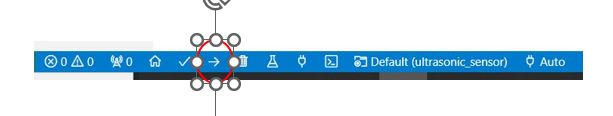
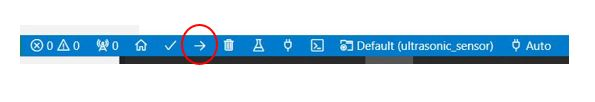
20250320

diff --git a/documentation/references/microros/microros.md b/documentation/references/microros/microros.md
@@ -101,8 +101,41 @@ board = esp32-s3-devkitc-1
 
 :::::
 
+*In het platformio.ini bestand van het project kun je details m.b.t. compileropties voor ieder environment inzien.*
 
-## Programmeren/uploaden van ESP32 devices
+## Uploaden programma naar ESP32 devices
+### Environment selecteren
+Alvorens je een microROS programma kan compileren dien je de juiste environment te selecteren die bij het het gekozen ESP32 board past.
+Activeer de environment slectector:
+
+![image](../../images/PlatformIO/SelectEnvironmentPre.JPG)
+
+Kies daarna de juiste environmet:
+
+![image](../../images/PlatformIO/SelectEnvironment.JPG)
+
+### Software Compileren
+Je kunt het programma voor het device compileren met onderstaande functie:
+
+![image](../../images/PlatformIO/Compile.JPG)
+
+### Uploaden naar ESP32 device
+Nadat je het device hebt aangesloten via USB kun je de software naar het device uploaden:
+
+![image](../../images/PlatformIO/Upload.JPG)
+
+Nadat de software succesvol is geüpload zal het programma automatisch in het device starten.
+
+Tip: *Tijdens het uploaden zal getoond worden welke USB-device hiervoor gebruikt wordt. Maak hiervan een aantekening deze heb je nodig bij het starten van de microROS-agent.*
+
+{octicon}`alert;2em;sd-text-info` Bij gebruik van WSL moet je het embedded systeem wel eerst met WSL verbinden, zie [Koppelen USB-devices aan WSL-Distributie](https://avansmechatronica.github.io/WindowsSubsystemForLinuxHandleiding/documentation/WSL_Handleiding.html#koppelen-usb-devices-aan-wsl-distributie)
+
+{octicon}`alert;2em;sd-text-info`Zorg er voor dat bij het uploaden de bijbehorende microROS-agent is afgesloten.
+
+{octicon}`alert;2em;sd-text-info`Start in geen geval de *Serial Monitor*. Deze zal de communicatie over USB naar de microROS-agent blokkeren.
+
+![image](../../images/PlatformIO/NoSerialMonitor.JPG)
+
 
 ## Voorbeelden
 Er zijn in het kader van deze modules al twee microROS implementaties gerealiseerd voor de volgende workshops:
@@ -114,12 +147,11 @@ Er zijn in het kader van deze modules al twee microROS implementaties gerealisee
 De microROS-agent kan worden gestart met het volgende commando:
 
 ```
-ros2 run micro_ros_agent micro_ros_agent serial --dev <device>
+ros2 run micro_ros_agent micro_ros_agent serial --dev <usb-device>
 ```
 
-Afhankelijk op welke USB poort je het embedded systeem hebt aangesloten dien je
-device in te vullen.
- Bijvoorbeeld;
+Afhankelijk op welke USB poort je het embedded systeem hebt aangesloten dien je usb-device in te vullen.
+ Bijvoorbeeld:
  * /dev/ttyUSB0
  * /dev/ttyACM0
 

diff --git a/documentation/1_basics/ESP32/ultrasonic_sensor.md b/documentation/1_basics/ESP32/ultrasonic_sensor.md
@@ -1,4 +1,33 @@
 # MicroROS ESP32 implementatie van range-sensor
 
+In dit voorbeeld wordt een SFR-04 ultrasoon sensor gekoppeld aan den ESP32 device. Nadat deze is geprogrammeerd zal dit device een topic **/sensor_info** publiceren. Met de ultrasoon sensor kun je vervolgens een afstand meten.
 
-Informatie over het installeren van microROS kun je [hier](../../references/microros/microros.md) vinden
+## Algemene microROS informatie
+Informatie over het installeren van microROS kun je [hier](../../references/microros/microros.md) vinden.
+
+## Openen van een microROS project
+Open met Visual Code project van de range-sensor in de volgende map (alleen map selecteren):
+```text
+~/ros2_industrial_ws/src/ROS2_industrial/1_basics/ESP32/ultrasonic_sensor
+```
+
+## SRF-04 aansluiten
+![image](../../images/ESP32/srf-04.jpg)
+
+|    ESP32 Pin     | SFR-04 Pin |
+|:----------------:|:----------:|
+|        5V        |    VCC     |
+|       GND        |    GND     |
+| SR04_TRIG_PIN(*) | Trig       |
+| SR04_ECHO_PIN(*) | Echo       |
+ 
+ (*) Deze pin-aansluitingen (van je gekozen ESP32 device) kun je vinden in het *platformio.ini* bestand:
+```bash
+gedit ~/ros2_industrial_ws/src/ROS2_industrial/1_basics/ESP32/ultrasonic_sensor/platformio.ini
+``` 
+## Testen
+Nadat het device is geprogrammeerd kun je de werking controlleren met;
+```bash
+ros2 topic echo /sensor_info
+```
+{octicon}`alert;2em;sd-text-info` Je dient wel eertst de microROS-agent te starten. 
